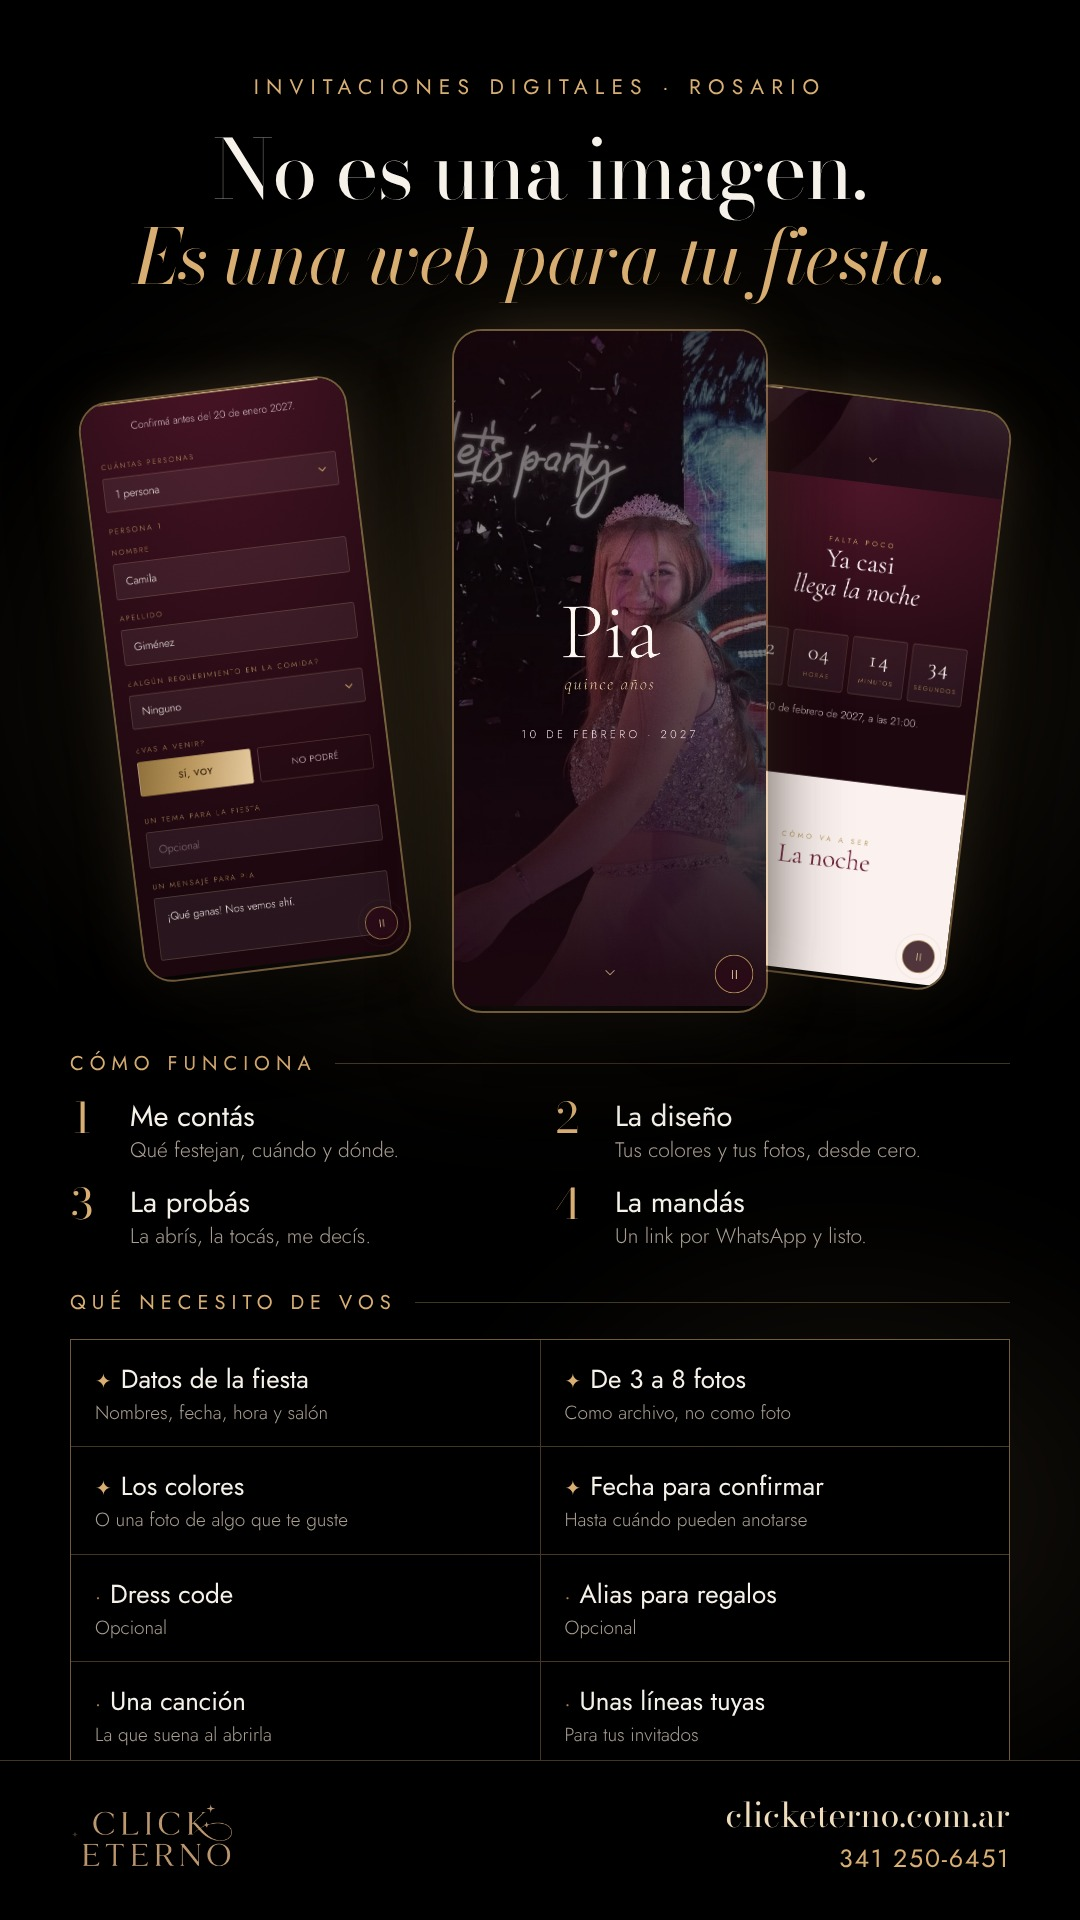
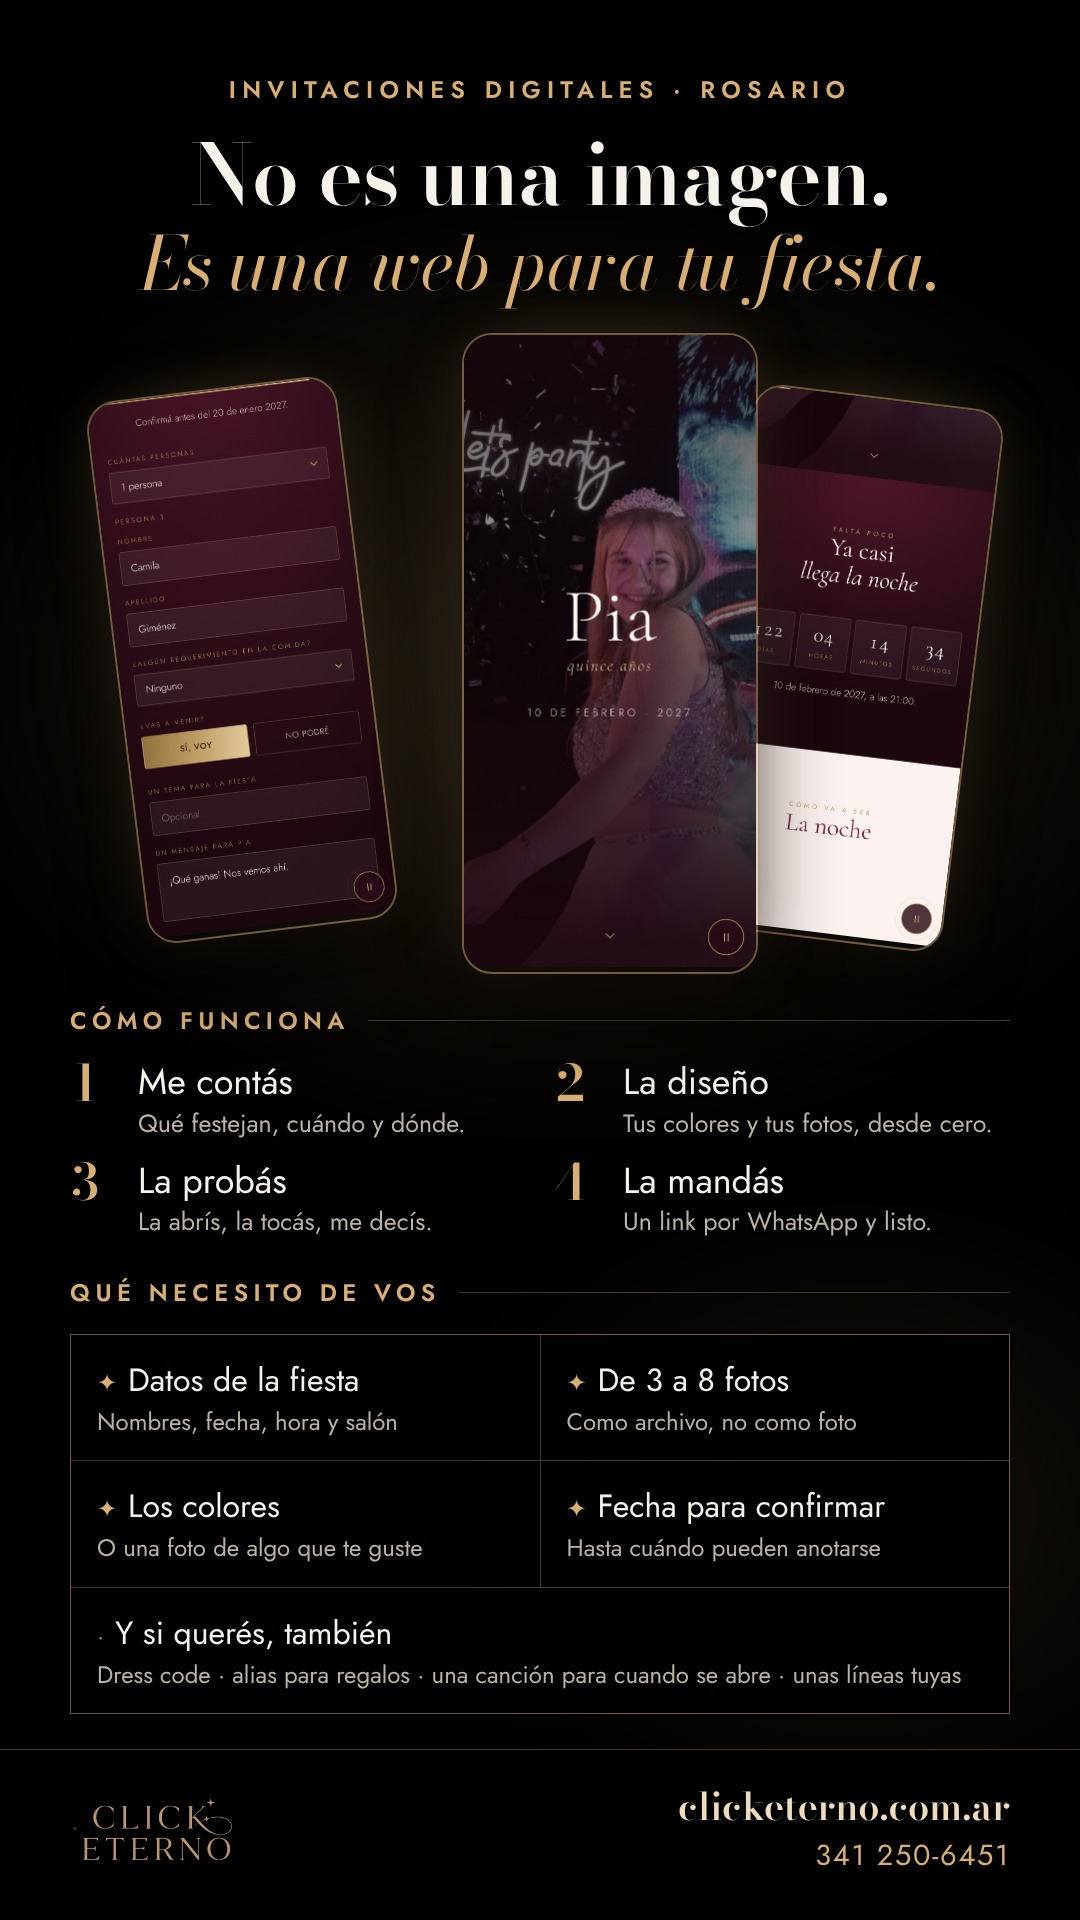
El afiche no se leía: la letra sube y el peso también
El dueño lo miró y no se entendía. El problema no era el tamaño en el
archivo: era que en WhatsApp la imagen llega comprimida y se ve primero
en miniatura, y ahí una Jost 300 de 19px y una Bodoni 400 de remates
finos se deshacen.

- El cuerpo pasa de 300 a 400 y de 19/21px a 24/25px.
- Los títulos de cada punto, de 26/29px a 32/36px y de 400 a 500.
- La Bodoni del título y de los números, de 400 a 600: mantiene el
  carácter y aguanta la compresión.
- Los rótulos de sección, de 20 a 24px, y menos espaciado entre letras
  (0.30em a 0.22em): tracking grande con letra chica es lo que menos se
  lee.
- El gris del texto secundario sube de #A79D90 a #BDB3A5.

Para que entre la letra grande, las cuatro filas de lo opcional pasaron
a un solo renglón ancho, y los teléfonos cedieron 46px de alto — si no,
la última fila quedaba tapada por el pie.

`video/afiche.js` preguntaba por `40px "Bodoni Moda"`, o sea por el peso
400, que desde este cambio no lo usa nadie: el navegador no lo baja y el
aviso de "la Bodoni no entró" saltaba sin que pasara nada. Ahora
pregunta por el peso que el afiche usa de verdad.

Claude-Session: https://claude.ai/code/session_01FpBBw9qZceprbd4ZqNaZCh

diff --git a/video/afiche.html b/video/afiche.html
@@ -7,7 +7,8 @@
   --crema:#F6F2EA; --mute:#A79D90; --hilo:rgba(217,174,114,.3);
 }
 body{width:1080px;height:1920px;background:#000;overflow:hidden;position:relative;
-  font-family:Jost,sans-serif;color:var(--crema);-webkit-font-smoothing:antialiased}
+  font-family:Jost,sans-serif;font-weight:400;color:var(--crema);
+  -webkit-font-smoothing:antialiased}
 .brillo{position:absolute;width:1500px;height:1100px;left:-180px;top:120px;
   background:radial-gradient(ellipse at center,rgba(217,174,114,.20),transparent 62%);
   filter:blur(40px)}
@@ -17,39 +18,41 @@ body{width:1080px;height:1920px;background:#000;overflow:hidden;position:relativ
 .cont{position:relative;padding:72px 70px 0}
 
 /* ── cabecera ── */
-.sobre{font-size:21px;letter-spacing:.34em;text-transform:uppercase;color:var(--oro);
-  text-align:center;margin-bottom:26px}
-h1{font-family:'Bodoni Moda',serif;font-weight:400;font-size:82px;line-height:1.02;
-  text-align:center;letter-spacing:-.015em}
-h1 em{font-style:italic;color:var(--oro);display:block;font-size:76px;margin-top:6px}
+.sobre{font-size:24px;font-weight:600;letter-spacing:.26em;text-transform:uppercase;
+  color:var(--oro);text-align:center;margin-bottom:24px}
+h1{font-family:'Bodoni Moda',serif;font-weight:600;font-size:84px;line-height:1.04;
+  text-align:center;letter-spacing:-.01em}
+h1 em{font-style:italic;font-weight:400;color:var(--oro);display:block;font-size:74px;margin-top:8px}
 
 /* ── los teléfonos ── */
-.fotos{height:706px;position:relative;margin:30px 0 18px}
+.fotos{height:658px;position:relative;margin:26px 0 16px}
 .tel{position:absolute;border-radius:30px;overflow:hidden;border:2px solid rgba(217,174,114,.5);
   box-shadow:0 40px 90px -20px rgba(0,0,0,.95), 0 0 70px -30px rgba(217,174,114,.5)}
 .tel img{display:block;width:100%}
-.t1{width:270px;height:584px;left:40px;top:62px;transform:rotate(-7deg)}
-.t2{width:316px;height:684px;left:382px;top:4px;z-index:3}
-.t3{width:270px;height:584px;right:30px;top:70px;transform:rotate(7deg)}
+.t1{width:252px;height:546px;left:46px;top:58px;transform:rotate(-7deg)}
+.t2{width:296px;height:641px;left:392px;top:4px;z-index:3}
+.t3{width:252px;height:546px;right:36px;top:66px;transform:rotate(7deg)}
 
 /* ── pasos ── */
-.rotulo{font-size:20px;letter-spacing:.3em;text-transform:uppercase;color:var(--oro);
-  margin-bottom:22px;display:flex;align-items:center;gap:18px}
+.rotulo{font-size:24px;font-weight:600;letter-spacing:.22em;text-transform:uppercase;
+  color:var(--oro);margin-bottom:24px;display:flex;align-items:center;gap:18px}
 .rotulo:after{content:'';flex:1;height:1px;background:var(--hilo)}
 .pasos{display:grid;grid-template-columns:1fr 1fr;gap:20px 30px;margin-bottom:36px}
 .paso{display:flex;gap:16px;align-items:flex-start}
-.paso .n{font-family:'Bodoni Moda',serif;font-size:42px;color:var(--oro);line-height:.9;
-  min-width:44px;font-variant-numeric:lining-nums tabular-nums}
-.paso b{display:block;font-weight:400;font-size:29px;line-height:1.15;margin-bottom:3px}
-.paso p{font-size:21px;line-height:1.4;color:var(--mute);font-weight:300}
+.paso .n{font-family:'Bodoni Moda',serif;font-weight:600;font-size:50px;color:var(--oro);
+  line-height:.86;min-width:52px;font-variant-numeric:lining-nums tabular-nums}
+.paso b{display:block;font-weight:500;font-size:36px;line-height:1.1;margin-bottom:5px}
+.paso p{font-size:25px;line-height:1.35;color:#BDB3A5;font-weight:400}
 
 /* ── qué necesito ── */
 .lista{display:grid;grid-template-columns:1fr 1fr;gap:1px;background:var(--hilo);
   border:1px solid var(--hilo);margin-bottom:34px}
-.it{background:#000;padding:20px 24px}
-.it b{display:block;font-weight:400;font-size:26px;margin-bottom:2px}
-.it b i{font-style:normal;color:var(--oro);margin-right:9px;font-size:20px}
-.it p{font-size:19px;color:var(--mute);line-height:1.4;font-weight:300}
+.it{background:#000;padding:22px 26px}
+.it b{display:block;font-weight:500;font-size:32px;margin-bottom:3px}
+.it b i{font-style:normal;color:var(--oro);margin-right:11px;font-size:24px}
+.it p{font-size:24px;color:#BDB3A5;line-height:1.35;font-weight:400}
+.it.ancho{grid-column:1 / -1}
+.it.ancho p{color:#BDB3A5}
 .it.op b i{color:var(--oro-h)}
 
 /* ── pie ── */
@@ -58,8 +61,9 @@ h1 em{font-style:italic;color:var(--oro);display:block;font-size:76px;margin-top
   background:#000}
 .pie img{width:168px;opacity:.95}
 .pie .der{margin-left:auto;text-align:right}
-.pie .web{font-family:'Bodoni Moda',serif;font-size:34px;color:var(--champan);line-height:1.2}
-.pie .tel-n{font-size:25px;color:var(--oro);letter-spacing:.07em;margin-top:4px}
+.pie .web{font-family:'Bodoni Moda',serif;font-weight:600;font-size:38px;
+  color:var(--champan);line-height:1.2}
+.pie .tel-n{font-size:29px;font-weight:500;color:var(--oro);letter-spacing:.06em;margin-top:4px}
 </style></head><body>
 <div class="brillo"></div><div class="brillo2"></div>
 <div class="cont">
@@ -91,10 +95,8 @@ h1 em{font-style:italic;color:var(--oro);display:block;font-size:76px;margin-top
     <div class="it"><b><i>✦</i>De 3 a 8 fotos</b><p>Como archivo, no como foto</p></div>
     <div class="it"><b><i>✦</i>Los colores</b><p>O una foto de algo que te guste</p></div>
     <div class="it"><b><i>✦</i>Fecha para confirmar</b><p>Hasta cuándo pueden anotarse</p></div>
-    <div class="it op"><b><i>·</i>Dress code</b><p>Opcional</p></div>
-    <div class="it op"><b><i>·</i>Alias para regalos</b><p>Opcional</p></div>
-    <div class="it op"><b><i>·</i>Una canción</b><p>La que suena al abrirla</p></div>
-    <div class="it op"><b><i>·</i>Unas líneas tuyas</b><p>Para tus invitados</p></div>
+    <div class="it ancho op"><b><i>·</i>Y si querés, también</b>
+      <p>Dress code · alias para regalos · una canción para cuando se abre · unas líneas tuyas</p></div>
   </div>
 
 </div>

diff --git a/video/afiche.js b/video/afiche.js
@@ -25,7 +25,11 @@ const SALIDA = __dirname + '/afiche-invitaciones.jpg';
 
   const est = await p.evaluate(() => ({
     familia: getComputedStyle(document.querySelector('h1')).fontFamily,
-    bodoni: document.fonts && document.fonts.check('40px "Bodoni Moda"'),
+    /* Se pregunta por el peso que el afiche USA. Con `40px "Bodoni Moda"`
+       a secas se pregunta por el 400, que desde que el título pasó a 600
+       no lo usa nadie: el navegador no lo baja y el aviso saltaba sin que
+       pasara nada. */
+    bodoni: document.fonts && document.fonts.check('600 40px "Bodoni Moda"'),
     alto: document.body.scrollHeight,
     fotos: [...document.querySelectorAll('.tel img')].filter(i => i.naturalWidth > 0).length,
   }));
